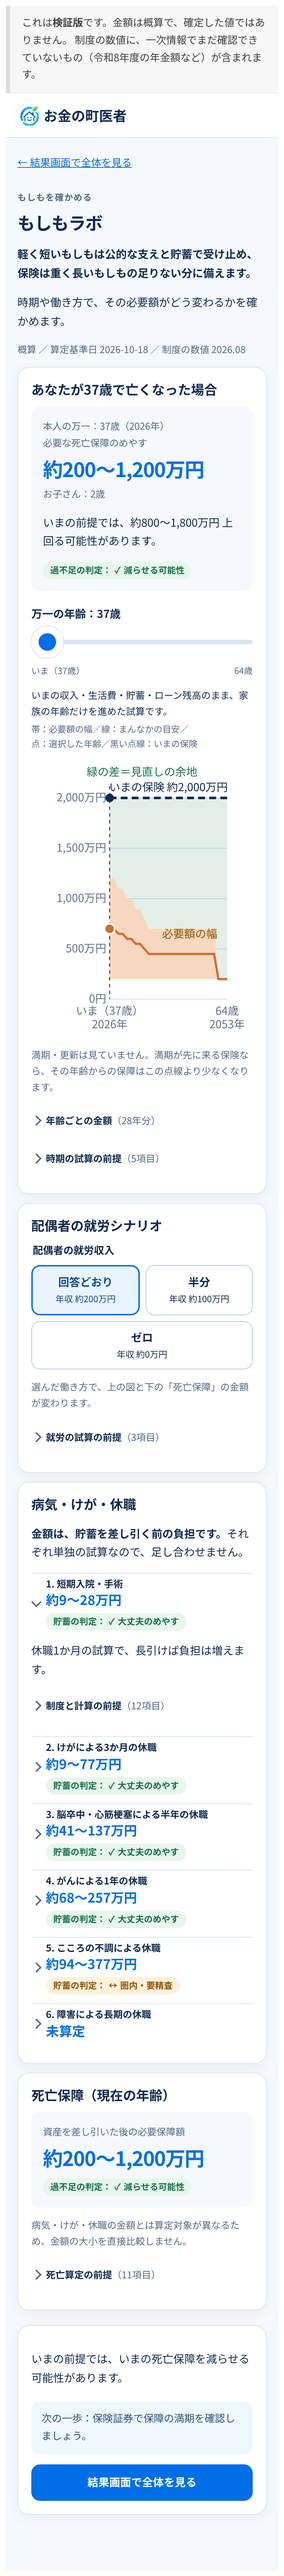
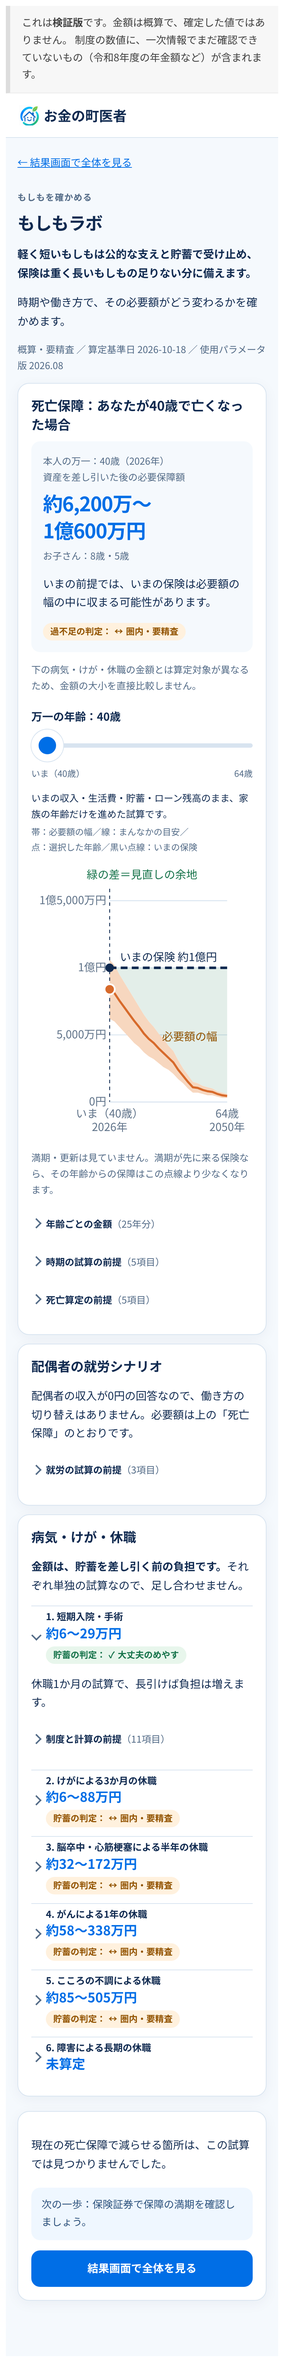
fix(lab): UX レビュー1回目の指摘に対応し、文言の床を自動チェックに足す
- 時期のカードと死亡保障のカードを1枚にまとめ、同じ金額を1回に
- 保障0円のときは差額の文を出さない
- 「減らせる箇所は見つかりませんでした」は最下部に1回
- 働き方の「回答どおり」に選択中の✓
- CLAUDE.md の必須表示（概算・要精査／使用パラメータ版）を戻す
- e2e/lab-copy.spec.ts（同じ金額は1回・次の一歩は1つ・準備中なし・1カード370字まで）

Claude-Session: https://claude.ai/code/session_01Fzmq9nUFPsWJRPivmmEeQQ

diff --git a/app/lab/Lab.tsx b/app/lab/Lab.tsx
@@ -294,21 +294,25 @@ export function Lab({
           </p>
           <p>時期や働き方で、その必要額がどう変わるかを確かめます。</p>
           <p className={s.note}>
-            概算 ／ 算定基準日 {date} ／ 制度の数値 {version}
+            概算・要精査 ／ 算定基準日 {date} ／ 使用パラメータ版 {version}
           </p>
         </header>
         {/* 言葉の入口は先頭。カードは小さく保つ（ヘッダーから最初の図までを1画面に収める・視覚 DoD (a)） */}
         {aiEnabled && <Words query={query} hasSpouse={data.hasSpouse} onApply={applyWords} />}
+        {/* 死亡保障のカードは1枚（2026-10-18・UX レビュー：時期のカードと「現在の年齢」のカードに
+            同じ金額と判定が2回出ていた）。スライダーの初期値がいまの年齢なので、ここが現在の年齢の死亡保障を兼ねる */}
         <section className={s.card} id="timing">
-          <h2>{point ? `あなたが${point.age}歳で亡くなった場合` : "万一の時期と必要額"}</h2>
+          <span id="scenario-death" />
+          <h2>{point ? `死亡保障：あなたが${point.age}歳で亡くなった場合` : "死亡保障"}</h2>
           {applied?.deathAge === age && <AppliedNote changes={{ deathAge: age }} />}
+          {applied?.scenario === "death" && <AppliedNote changes={{ scenario: "death" }} />}
           {point ? (
             <>
               <div className={s.readout} aria-live="polite">
                 <span>
                   本人の万一：{point.age}歳（{point.year}年）
                 </span>
-                <span>必要な死亡保障のめやす</span>
+                <span>資産を差し引いた後の必要保障額</span>
                 <strong className={s.amount}>
                   {<AmountRange low={point.low} high={point.high} />}
                 </strong>
@@ -317,7 +321,8 @@ export function Lab({
                     ? `お子さん：${point.children.map((a) => `${a}歳`).join("・")}`
                     : "お子さんなし"}
                 </span>
-                {difference && (
+                {/* 保険なしの世帯では差＝必要額そのもので、同じ額の繰り返しになるので出さない */}
+                {difference && data.coverage !== 0 && (
                   <p>
                     {difference.verdict === "pending" ? (
                       "いまの保険が不明のため、差は未算定です。"
@@ -336,6 +341,9 @@ export function Lab({
                 )}
                 <Comparison point={point} />
               </div>
+              <p className={s.note}>
+                下の病気・けが・休職の金額とは算定対象が異なるため、金額の大小を直接比較しません。
+              </p>
               <label className={s.sliderLabel} htmlFor="lab-age">
                 万一の年齢：{age}歳
               </label>
@@ -408,7 +416,13 @@ export function Lab({
               </Fold>
             </>
           ) : (
-            <strong className={s.amount}>対象期間外</strong>
+            <div className={s.readout} aria-live="polite">
+              <span>資産を差し引いた後の必要保障額（現在の年齢）</span>
+              <strong className={s.amount}>
+                {<AmountRange low={scenario.now.low} high={scenario.now.high} />}
+              </strong>
+              <Comparison point={scenario.now} />
+            </div>
           )}
           <Fold label="時期の試算の前提" count="（5項目）">
             <ul>
@@ -430,6 +444,21 @@ export function Lab({
               </li>
             </ul>
           </Fold>
+          <Fold label="死亡算定の前提" count={`（${scenario.now.assumptions.length + 4}項目）`}>
+            <ul>
+              <li>
+                生活費・教育費から遺族年金・就労収入・資産を差し引きます。葬儀・予備費などの当社基準も含みます。資産は反映済みなので、貯蓄と再比較せず保障の過不足を示します。
+              </li>
+              <li>
+                遺族年金は、亡くなった方に支えられていた家族への年金です。配偶者は妻として計算し、夫の場合は受給条件により必要額が増えることがあります。
+              </li>
+              <li>{scenario.now.crossing ?? "回答の幅を必要額に反映しています。"}</li>
+              {scenario.now.assumptions.map((a) => (
+                <li key={a}>{a}</li>
+              ))}
+              <li>出典：{data.deathSource}</li>
+            </ul>
+          </Fold>
         </section>
         {data.hasSpouse && (
           <section className={s.card} id="work">
@@ -439,7 +468,7 @@ export function Lab({
             )}
             {spouseIncomeIsZero ? (
               <p>
-                配偶者の収入が0円の回答なので、働き方の切り替えはありません。必要額は下の「死亡保障」のとおりです。
+                配偶者の収入が0円の回答なので、働き方の切り替えはありません。必要額は上の「死亡保障」のとおりです。
               </p>
             ) : (
               <>
@@ -452,6 +481,7 @@ export function Lab({
                       aria-pressed={work === i}
                       onClick={() => setWork(i)}
                     >
+                      {work === i && <span aria-hidden="true">✓ </span>}
                       {label}
                       <span className={s.buttonIncome}>
                         年収 約{formatMan(data.work[i].now.annualIncome ?? 0)}
@@ -459,9 +489,7 @@ export function Lab({
                     </button>
                   ))}
                 </fieldset>
-                <p className={s.note}>
-                  選んだ働き方で、上の図と下の「死亡保障」の金額が変わります。
-                </p>
+                <p className={s.note}>選んだ働き方で、上の「死亡保障」の金額と図が変わります。</p>
               </>
             )}
             <Fold label="就労の試算の前提" count="（3項目）">
@@ -554,35 +582,6 @@ export function Lab({
             </Fold>
           </div>
         </section>
-        <section className={s.card} id="scenario-death">
-          <h2>死亡保障（現在の年齢）</h2>
-          {applied?.scenario === "death" && <AppliedNote changes={{ scenario: "death" }} />}
-          <div className={s.readout} aria-live="polite">
-            <span>資産を差し引いた後の必要保障額</span>
-            <strong className={s.amount}>
-              {<AmountRange low={scenario.now.low} high={scenario.now.high} />}
-            </strong>
-            <Comparison point={scenario.now} />
-          </div>
-          <p className={s.note}>
-            病気・けが・休職の金額とは算定対象が異なるため、金額の大小を直接比較しません。
-          </p>
-          <Fold label="死亡算定の前提" count={`（${scenario.now.assumptions.length + 4}項目）`}>
-            <ul>
-              <li>
-                生活費・教育費から遺族年金・就労収入・資産を差し引きます。葬儀・予備費などの当社基準も含みます。資産は反映済みなので、貯蓄と再比較せず保障の過不足を示します。
-              </li>
-              <li>
-                遺族年金は、亡くなった方に支えられていた家族への年金です。配偶者は妻として計算し、夫の場合は受給条件により必要額が増えることがあります。
-              </li>
-              <li>{scenario.now.crossing ?? "回答の幅を必要額に反映しています。"}</li>
-              {scenario.now.assumptions.map((a) => (
-                <li key={a}>{a}</li>
-              ))}
-              <li>出典：{data.deathSource}</li>
-            </ul>
-          </Fold>
-        </section>
         {estimations.length > 0 && (
           <Fold label="入力の推定" count={`（${estimations.length}項目）`}>
             <ul>
@@ -593,15 +592,13 @@ export function Lab({
           </Fold>
         )}
         <footer className={s.card}>
-          {scenario.now.verdict !== "reducible" ? (
+          {/* 減らせる箇所は「無い」ときも必ず書く（CLAUDE.md の出力の必須）。
+              ある場合は死亡保障カードの判定（減らせる可能性）が同じ事実なので、ここでは繰り返さない */}
+          {scenario.now.verdict !== "reducible" && (
             <p>
-              現在の死亡保障で減らせる箇所は、
-              <br />
-              この試算では見つかりませんでした。
+              現在の死亡保障で減らせる箇所は、この試算では見つかりませんでした。
               {scenario.now.verdict === "pending" && "現保障が不明のため、確認できていません。"}
             </p>
-          ) : (
-            <p>いまの前提では、いまの死亡保障を減らせる可能性があります。</p>
           )}
           <p className={s.next}>
             次の一歩：

diff --git a/e2e/lab-copy.spec.ts b/e2e/lab-copy.spec.ts
@@ -1,0 +1,72 @@
+import { expect, type Page, test } from "@playwright/test";
+
+/**
+ * もしもラボの文言の床（2026-10-18 文言の整理・design/LAB_COPY.md）。
+ * UX レビューの直しで文を足すたびに膨らむのを、数で止める。
+ *
+ * - 同じ金額は、見えている文字の中で1回だけ（開いた中で閉じた行の金額を繰り返さない）
+ * - 「次の一歩」はページに1つ
+ * - 何もできない状態表示（「準備中」「ありません」）を出さない
+ * - カード1枚の見えている文字数に上限（閉じた折りたたみの中は数えない）
+ *
+ * 世帯は design/screenshots/lab-fintech-* と同じ代表3世帯。金額の正しさは src/calc/lab.test.ts が持つ。
+ */
+const HOUSEHOLDS = {
+  rebalance:
+    "v=1&sb=1989&emp=employee&sp=1&spb=1991&spe=employee&ch=2024&edu=public&inc=lt600&sinc=lt400&as=lt500&liv=lt30&ho=own_loan&loan=lt3000&dan=yes&cvs=m2000&cvsp=none",
+  shortage:
+    "v=1&sb=1986&emp=self&sp=1&spb=1988&spe=none&ch=2018-2021&edu=private&inc=lt400&sinc=none&as=lt100&liv=lt35&ho=rent&cvs=none&cvsp=none",
+  single: "v=1&sb=1996&emp=employee&sp=0&ch=&inc=lt600&as=lt500&liv=lt25&ho=rent&cvs=m1000",
+};
+
+/** カード1枚の見えている文字数の上限（空白を除く）。2026-10-18 の整理後の最大 + 1割ほど */
+const CARD_CHAR_LIMIT = 370;
+
+/** 見えている文字だけ（閉じた details の中・ボタン・図は除く）をカードごとに返す */
+async function visibleTexts(page: Page) {
+  return page.evaluate(() => {
+    const visible = (root: Element) => {
+      const out: string[] = [];
+      const walker = document.createTreeWalker(root, NodeFilter.SHOW_TEXT);
+      for (let n = walker.nextNode(); n; n = walker.nextNode()) {
+        const el = n.parentElement;
+        if (!el || el.closest("button, svg, [aria-hidden='true']")) continue;
+        if (!el.checkVisibility()) continue;
+        out.push(n.textContent ?? "");
+      }
+      return out.join("");
+    };
+    const main = document.querySelector("main");
+    if (!main) throw new Error("main が無い");
+    return {
+      page: visible(main),
+      cards: [...main.querySelectorAll("section, footer")].map((c) => ({
+        title: c.querySelector("h2")?.textContent ?? "(見出しなし)",
+        text: visible(c),
+      })),
+    };
+  });
+}
+
+for (const [name, query] of Object.entries(HOUSEHOLDS)) {
+  test(`もしもラボの文言の床（${name}）`, async ({ page }) => {
+    await page.setViewportSize({ width: 390, height: 844 });
+    await page.goto(`/lab?${query}`);
+    await expect(page.getByRole("heading", { level: 1 })).toHaveText("もしもラボ");
+    const { page: text, cards } = await visibleTexts(page);
+
+    const amounts = text.match(/約[\d,億]+(?:万)?(?:〜[\d,億]+)?万円/g) ?? [];
+    const repeated = [...new Set(amounts.filter((a, i) => amounts.indexOf(a) !== i))];
+    expect(repeated, `同じ金額が2回以上見えている（${name}）`).toEqual([]);
+
+    expect(text.split("次の一歩").length - 1, `「次の一歩」の数（${name}）`).toBe(1);
+    expect(text).not.toContain("準備中");
+    expect(text).not.toMatch(/ありません。$/m);
+
+    for (const c of cards) {
+      const n = c.text.replace(/\s/g, "").length;
+      console.log(`${name}｜${c.title}｜${n}字`);
+      expect(n, `カード「${c.title}」の文字数（${name}）`).toBeLessThanOrEqual(CARD_CHAR_LIMIT);
+    }
+  });
+}

diff --git a/tasks/current.md b/tasks/current.md
@@ -160,8 +160,12 @@
 ## feat/lab-copy（もしもラボの文の整理・2026-10-18・Claude Code）
 
 - オーナー決定（2026-10-18、`okane-doctor/2026-10-18_app-design-audit/AUDIT.md` の5節をおすすめどおり）：1カードは見出し・金額・判定・1文まで、同じ金額と判定は1ページに1回、「次の一歩」は1つ、中身のない状態表示は出さない
-- やったこと：「軽く短いもしもは公的な支えと貯蓄、保険は重く長いもしもに」を最下部から冒頭へ。次の一歩をカードごとの4つから最下部の1つに（保険の有無で文を選ぶ）。病気・けがの行を開いた中の金額と判定の繰り返し、就労カードの金額（死亡保障カードと同じ値）、「準備中」「推定で補った入力はありません」「保存の機能（準備中）」を外した。グラフ前の説明を1文に（続きは前提の折りたたみに既にある）。凡例の「代表値」を「まんなかの目安」に、「パラメータ版」を「制度の数値」に。320px で横にはみ出していた凡例（黒い点線の説明）を短くした
+- やったこと：「軽く短いもしもは公的な支えと貯蓄、保険は重く長いもしもに」を最下部から冒頭へ。次の一歩をカードごとの4つから最下部の1つに（保険の有無で文を選ぶ）。病気・けがの行を開いた中の金額と判定の繰り返し、就労カードの金額（死亡保障カードと同じ値）、「準備中」「推定で補った入力はありません」「保存の機能（準備中）」を外した。グラフ前の説明を1文に（続きは前提の折りたたみに既にある）。凡例の「代表値」を「まんなかの目安」に。320px で横にはみ出していた凡例（黒い点線の説明）を短くした
 - 残したもの（UX レビュー4回目で必須）：貯蓄を差し引く前／資産を差し引いた後、金額の大小を比べない、固定した試算、満期・更新は見ていない
 - 判定の言葉（「圏内・要精査」など）は結果画面と同時に変えるので、ここでは変えていない
 - 確認：390px でページの高さ 4,264→3,437px（不足）・4,400→3,530px（組み替え）・3,737→3,149px（単身）。図か18px以上の数字が無い区間の最長は 569／762／555px（行の金額を 16→18px にした）。4世帯 × 390/320/1280 で横スクロールなし・12px 未満の文字なし・44px 未満の操作なし
-- 次の1手：UX レビュー → request-qa → マージ
+- UX レビュー1回目への対応：時期のカードと死亡保障のカードで同じ金額が2回出ていたので、1枚の「死亡保障」カードにまとめた（ラベルは「資産を差し引いた後の必要保障額」）。差額の文は保障が0円のときは出さない。「減らせる箇所は見つかりませんでした」は判定が「減らせる」でないときだけ最下部に1回。働き方の「回答どおり」に選択中の✓を付けた
+- 一度消してしまった CLAUDE.md の必須表示（「概算・要精査」「使用パラメータ版」、減らせる箇所が無いときの一文）を戻した
+- Mac 側の重複ブランチ `feat/lab-copy-dedupe` から自動チェック `e2e/lab-copy.spec.ts`（同じ金額は1回・次の一歩は1つ・「準備中」なし・1カード370字まで）を取り込んだ。3世帯で通る
+- 確認（UX 対応後）：390px の高さ 3,123（不足）・3,238（組み替え）・2,902px（単身）。図か18px以上の数字が無い区間の最長は 621／814／544px。4世帯 × 390/320/1280 で横スクロールなし・12px 未満の文字なし・44px 未満の操作なし
+- 次の1手：UX 再レビュー → request-qa → マージ
